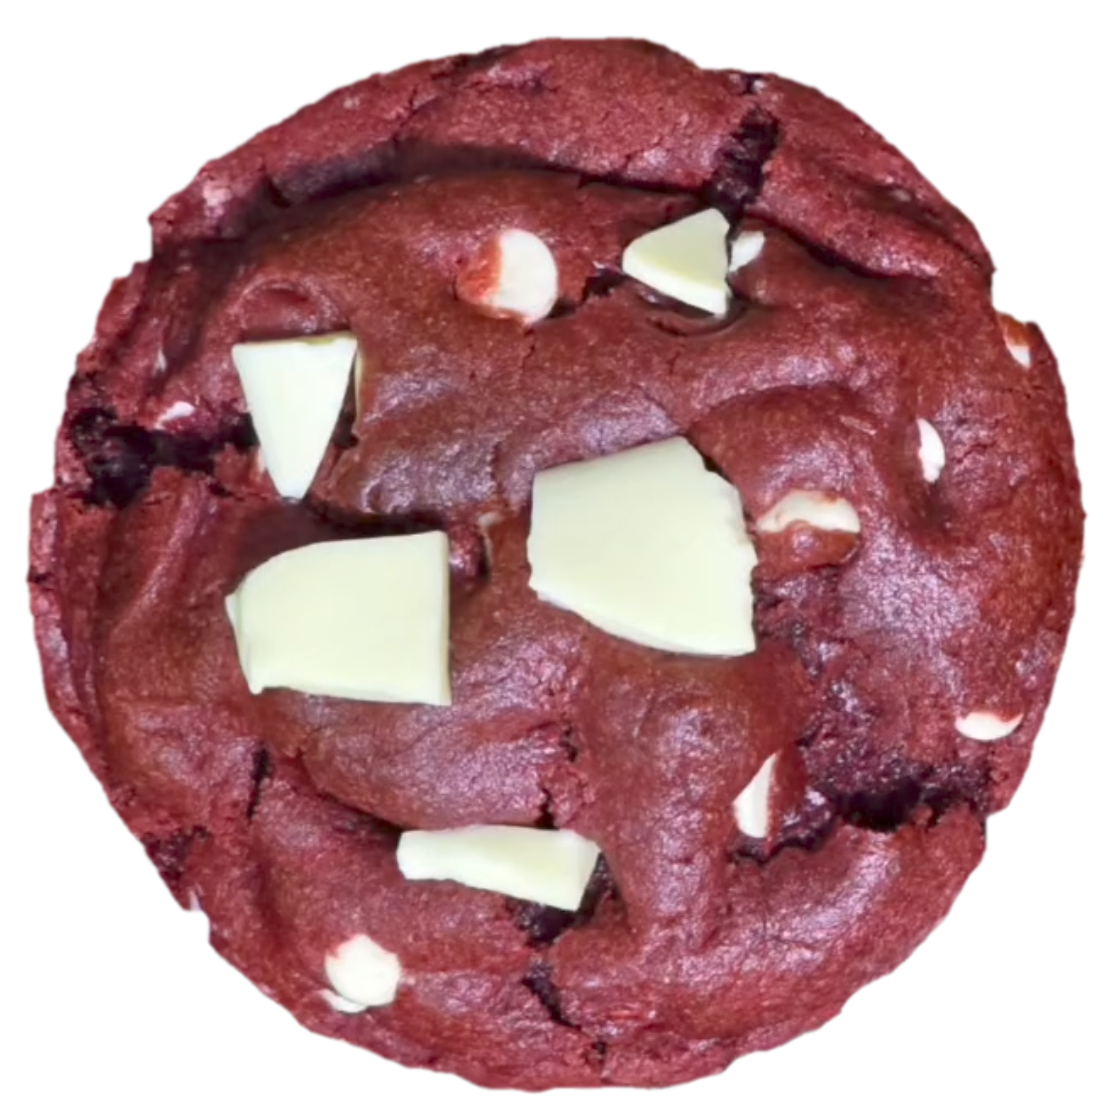
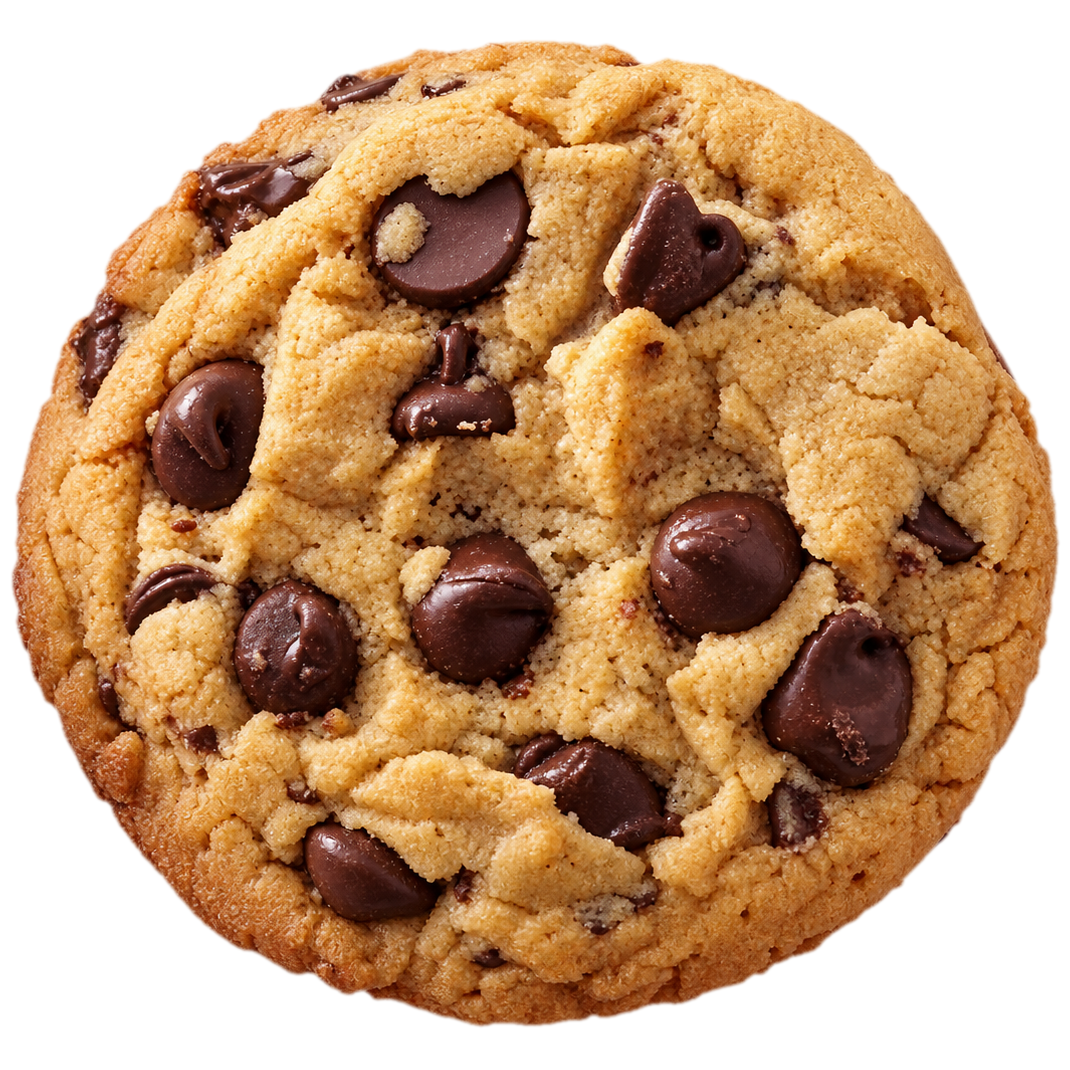
feat: replace hero cookie with chocolate chip cookie
- hero-cookie-cutout.png is now the provided chocolate chip cookie (1070x1070,
  semi-transparent halo removed, clean edge, no retouching). Used by the site
  entry and the Hero; the Red Velvet stays in the catalog (red-velvet.jpg).
- Four bites re-fitted to the new cookie: bites 1-3 land on dough-only edge
  zones; the final bite follows a dough path between the chip columns so the
  remaining piece keeps its chips whole.
- Exposed crumb and falling crumbs switched from red velvet to golden dough
  tones (occasional chocolate crumb).

Claude-Session: https://claude.ai/code/session_01VCu2TvuYeDSoWWHqexmgZC

diff --git a/src/components/cookie/bites.ts b/src/components/cookie/bites.ts
@@ -2,8 +2,8 @@
  * Geometría de las mordidas (pura, determinista, testeable).
  *
  * Coordenadas en % del cuadrado que contiene la cookie (0–100, centro 50/50).
- * Ajustada a la foto real public/images/cookies/hero-cookie-cutout.png
- * (Red Velvet): el borde de la cookie queda a ~47 % del centro.
+ * Ajustada a la foto public/images/cookies/hero-cookie-cutout.png (cookie
+ * clásica con chips): el borde de la cookie queda a ~47 % del centro.
  *
  * Cada mordida es el arco de una mandíbula (no un círculo): una curva ancha
  * con ondulación suave, marcas de dientes de tamaño desigual y un borde
@@ -34,19 +34,20 @@ export const COOKIE_EDGE = 47;
 export type BiteStep = readonly BiteSpec[];
 
 /**
- * 4 mordidas progresivas:
+ * 4 mordidas progresivas, en zonas del borde con masa (sin chips):
  * 1ª chica arriba a la derecha → 2ª algo mayor abajo a la izquierda →
  * 3ª marcada a la derecha (se une con la 1ª) → 4ª: bocado final de tres
- * mandíbulas de tamaño normal que dejan solo un pedazo a la izquierda.
+ * mandíbulas de tamaño normal. Su corte sigue un camino de masa entre las
+ * columnas de chips, así el pedazo que queda conserva los chips enteros.
  */
 export const BITES: readonly BiteStep[] = [
-  [{ angle: -30, depth: 10, width: 13, height: 17, skew: 3, teeth: 4, seed: 19 }],
-  [{ angle: 148, depth: 12, width: 17, height: 19, skew: -4, teeth: 5, seed: 29 }],
-  [{ angle: -6, depth: 21, width: 24, height: 27, skew: -3, teeth: 7, seed: 47 }],
+  [{ angle: -40, depth: 9, width: 13, height: 16, skew: 3, teeth: 4, seed: 19 }],
+  [{ angle: 140, depth: 12, width: 16, height: 19, skew: -4, teeth: 5, seed: 29 }],
+  [{ angle: -12, depth: 17, width: 21, height: 25, skew: -3, teeth: 6, seed: 47 }],
   [
-    { angle: -50, depth: 31, width: 25, height: 34, skew: -4, teeth: 7, seed: 83 },
-    { angle: 12, depth: 50, width: 27, height: 36, skew: 4, teeth: 7, seed: 97 },
-    { angle: 66, depth: 34, width: 25, height: 34, skew: 5, teeth: 7, seed: 131 },
+    { angle: -50, depth: 29, width: 24, height: 38, skew: -8, teeth: 6, seed: 83 },
+    { angle: -6, depth: 42, width: 26, height: 34, skew: 4, teeth: 7, seed: 97 },
+    { angle: 46, depth: 25, width: 25, height: 30, skew: 5, teeth: 6, seed: 131 },
   ],
 ];
 

diff --git a/src/components/cookie/BiteableCookie.module.css b/src/components/cookie/BiteableCookie.module.css
@@ -71,12 +71,12 @@
 }
 
 /*
- * Miga expuesta en el borde de cada mordida: la misma foto llevada a un rojo
- * mate de interior de red velvet. Se comprime el rango antes de colorear para
- * que el chocolate blanco cortado no quede como un destello claro.
+ * Miga expuesta en el borde de cada mordida: la misma foto, apenas más clara y
+ * menos saturada. El interior de una cookie con chips es masa dorada pálida,
+ * más clara que la corteza tostada; los chips conservan su color.
  */
 .rim {
-  filter: grayscale(1) contrast(0.55) brightness(0.52) sepia(1) hue-rotate(-50deg) saturate(2.8);
+  filter: saturate(0.8) brightness(1.08) contrast(0.9);
 }
 
 /* Sin foto real todavía: lugar neutro (no se dibuja una cookie). */
@@ -111,17 +111,17 @@
   animation: crumb 900ms cubic-bezier(0.45, 0, 0.8, 0.55) both;
 }
 
-/* Tonos tomados de la cookie real (Red Velvet con chocolate blanco). */
+/* Tonos tomados de la cookie real (masa dorada con chips de chocolate). */
 .tone0 {
-  background: #7e2c2e;
+  background: #d8a868;
 }
 
 .tone1 {
-  background: #5e1f22;
+  background: #b77a3e;
 }
 
 .tone2 {
-  background: #efe4c8;
+  background: #4a2a1a;
 }
 
 /* Texto */

diff --git a/src/components/cookie/bites.test.ts b/src/components/cookie/bites.test.ts
@@ -56,7 +56,8 @@ describe("mordidas", () => {
     const left = [0, 1, 2, 3, 4].map(remaining);
     for (let i = 1; i < left.length; i++) assert.ok(left[i] < left[i - 1], `mordida ${i}: ${left[i]} >= ${left[i - 1]}`);
     assert.ok(left[1] > 0.9, "la 1ª es chica");
-    assert.ok(left[4] > 0.2 && left[4] < 0.5, `la última deja poco pero algo: ${left[4]}`);
+    // La última deja una porción (cerca de la mitad): el corte sigue la masa entre chips.
+    assert.ok(left[4] > 0.3 && left[4] < 0.6, `la última deja una porción lógica: ${left[4]}`);
   });
 
   it("las mordidas no son círculos: el radio desde su centro varía", () => {

diff --git a/public/images/cookies/README.md b/public/images/cookies/README.md
@@ -34,8 +34,8 @@ interfaz de Instagram (sin barras, avatar, botones ni textos del post):
 
 | Archivo                  | Publicación de origen                                  |
 | ------------------------ | ------------------------------------------------------ |
-| `hero-cookie-cutout.png` | Red Velvet (recorte sin fondo, sin el borde de sticker) |
-| `red-velvet.jpg`         | Mismo recorte Red Velvet sobre fondo liso              |
+| `hero-cookie-cutout.png` | Cookie clásica con chips (foto provista; sin fondo ni halo). Entrada y Hero |
+| `red-velvet.jpg`         | Recorte de la Red Velvet sobre fondo liso              |
 | `cookies-cream.jpg`      | Cookie con Oreo y crema                                |
 | `pistacho.jpg`           | Dos cookies de pistacho en caja                        |
 | `limon-frambuesa.jpg`    | Cookie de limón con chocolate blanco y frambuesa       |
